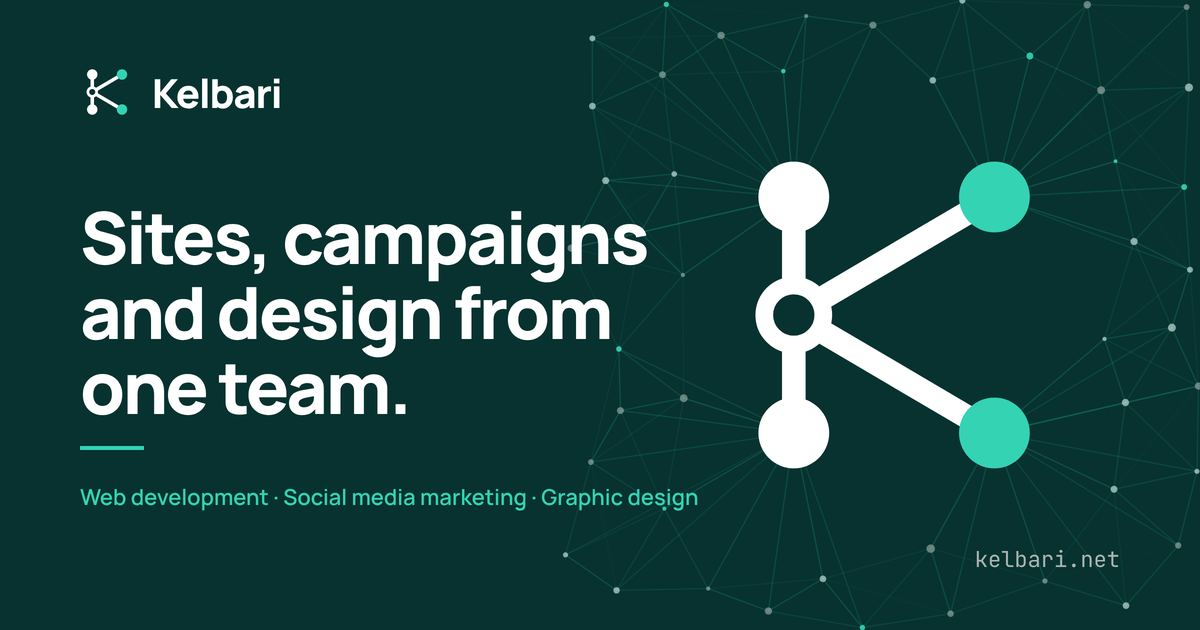
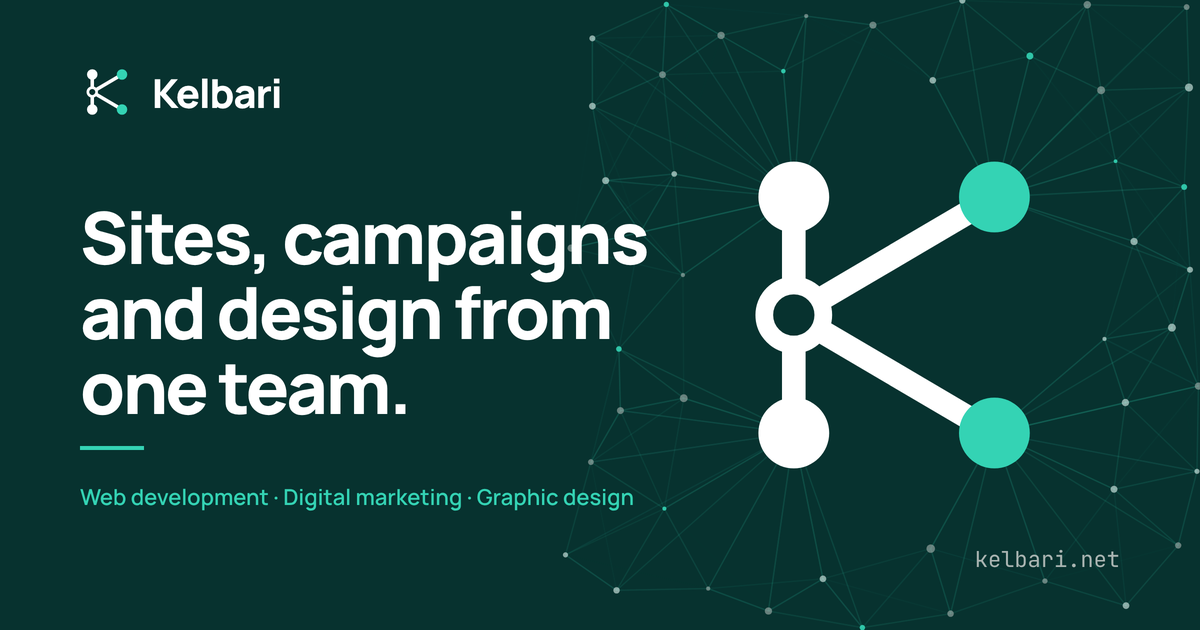
Rename the middle pillar to Digital marketing
Social media marketing is now presented as part of Digital marketing:
pillar title and copy, hero tagline, page title, meta and social
descriptions, structured data, footer, contact form service option, CMS
categories, web manifest, README and the social preview image.

Claude-Session: https://claude.ai/code/session_016sDSN3fS5CBrFtSGfn1WzY

Changed region(s): [[0.2158, 0.754, 0.5858, 0.8143]]

diff --git a/public/index.html b/public/index.html
@@ -3,8 +3,8 @@
 <head>
 <meta charset="utf-8">
 <meta name="viewport" content="width=device-width, initial-scale=1, viewport-fit=cover">
-<title>Kelbari — Web development, social media marketing, graphic design</title>
-<meta name="description" content="Kelbari builds and runs the digital side of a business — web development, social media marketing and graphic design — as one connected system.">
+<title>Kelbari — Web development, digital marketing, graphic design</title>
+<meta name="description" content="Kelbari builds and runs the digital side of a business — web development, digital marketing and graphic design — as one connected system.">
 <link rel="canonical" href="https://kelbari.net/">
 <meta name="theme-color" content="#07322F">
 
@@ -25,7 +25,7 @@
 <meta property="og:image:alt" content="The Kelbari Node K mark beside the line “Sites, campaigns and design from one team.”">
 <meta name="twitter:card" content="summary_large_image">
 <meta name="twitter:title" content="Kelbari — Sites, campaigns and design from one team">
-<meta name="twitter:description" content="Web development, social media marketing and graphic design as one connected system.">
+<meta name="twitter:description" content="Web development, digital marketing and graphic design as one connected system.">
 <meta name="twitter:image" content="https://kelbari.net/assets/og-image.png">
 
 <link rel="preload" href="/assets/fonts/manrope-latin-wght-normal.woff2" as="font" type="font/woff2" crossorigin>
@@ -39,7 +39,7 @@
   "name": "Kelbari",
   "url": "https://kelbari.net/",
   "logo": "https://kelbari.net/assets/brand/icon-512.png",
-  "description": "Kelbari builds and runs the digital side of a business — web development, social media marketing and graphic design — as one connected system.",
+  "description": "Kelbari builds and runs the digital side of a business — web development, digital marketing (including social media marketing) and graphic design — as one connected system.",
   "email": "kelbariofficial@gmail.com",
   "telephone": "+92-301-9233246",
   "founder": [
@@ -100,7 +100,7 @@
     <div class="wrap">
       <div class="hero-grid">
         <div class="hero-copy">
-          <p class="tagline">Web development · Social media marketing · Graphic design</p>
+          <p class="tagline">Web development · Digital marketing · Graphic design</p>
           <h1 class="display" id="hero-title">Sites, campaigns and design from one team.</h1>
           <div class="rule" aria-hidden="true"></div>
           <p class="lede">Kelbari builds and runs the digital side of a business — the site, the feed, and the look — as one connected system, so nothing drifts out of sync.</p>
@@ -151,10 +151,10 @@
           </article>
           <article class="pillar">
             <span class="pillar-icon"><svg viewBox="0 0 40 40" aria-hidden="true" focusable="false"><path d="M8 29V12a3 3 0 0 1 3-3h18a3 3 0 0 1 3 3v11a3 3 0 0 1-3 3H14z" fill="none" stroke="#07322F" stroke-width="2.5" stroke-linejoin="round"/><path d="M14 20L20 15L26 20" fill="none" stroke="#07322F" stroke-width="2.5" stroke-linecap="round" stroke-linejoin="round"/><circle cx="14" cy="20" r="2" fill="#07322F"/><circle cx="20" cy="15" r="2" fill="#07322F"/><circle cx="26" cy="20" r="3" fill="#34D3B4"/></svg></span>
-            <h3>Social media marketing</h3>
-            <p>Content calendars, paid campaigns and reporting that ties spend back to something you can count.</p>
+            <h3>Digital marketing</h3>
+            <p>Social media, paid campaigns and the content behind them, with reporting that ties spend back to something you can count.</p>
             <ul>
-              <li>Monthly content calendars</li>
+              <li>Social media marketing and content calendars</li>
               <li>Meta and TikTok paid campaigns</li>
               <li>Community management</li>
               <li>Monthly performance reporting</li>
@@ -287,7 +287,7 @@
             <label for="f-service">Service needed</label>
             <select id="f-service" name="service">
               <option>Web development</option>
-              <option>Social media marketing</option>
+              <option>Digital marketing</option>
               <option>Graphic design</option>
               <option>All three</option>
             </select>
@@ -339,7 +339,7 @@
 
 <footer class="site-footer">
   <div class="wrap frow">
-    <p>© <span data-year>2026</span> Kelbari. Web development · Social media marketing · Graphic design.</p>
+    <p>© <span data-year>2026</span> Kelbari. Web development · Digital marketing · Graphic design.</p>
     <p class="mono"><a href="mailto:kelbariofficial@gmail.com">kelbariofficial@gmail.com</a> · <a href="mailto:support.kelbari@gmail.com">support.kelbari@gmail.com</a></p>
   </div>
 </footer>

diff --git a/tools/og-template.html b/tools/og-template.html
@@ -23,7 +23,7 @@ h1{position:absolute;left:80px;top:200px;margin:0;width:600px;font-weight:800;fo
 </div>
 <h1>Sites, campaigns and design from one team.</h1>
 <div class="rule"></div>
-<div class="tag">Web development · Social media marketing · Graphic design</div>
+<div class="tag">Web development · Digital marketing · Graphic design</div>
 <div class="url">kelbari.net</div>
 <script>
 // Same idea as the live hero: the K mark is the seed, the network grows out of it.

diff --git a/README.md b/README.md
@@ -1,6 +1,6 @@
 # Kelbari website
 
-The marketing site for [Kelbari](https://kelbari.net): web development, social media marketing and graphic design, sold as one connected system.
+The marketing site for [Kelbari](https://kelbari.net): web development, digital marketing (including social media marketing) and graphic design, sold as one connected system.
 
 Plain HTML, CSS and JavaScript. No build step, no framework. Self-hosted fonts (Manrope and JetBrains Mono).
 
@@ -69,7 +69,7 @@ Edit `public/data/projects.json`. An empty portfolio is `{ "projects": [] }`. Ea
 }
 ```
 
-`category` is one of: Web development, Social media marketing, Graphic design, Full brand system. `image` and `link` are optional.
+`category` is one of: Web development, Digital marketing, Graphic design, Full brand system. `image` and `link` are optional.
 
 ## How deploys work
 
